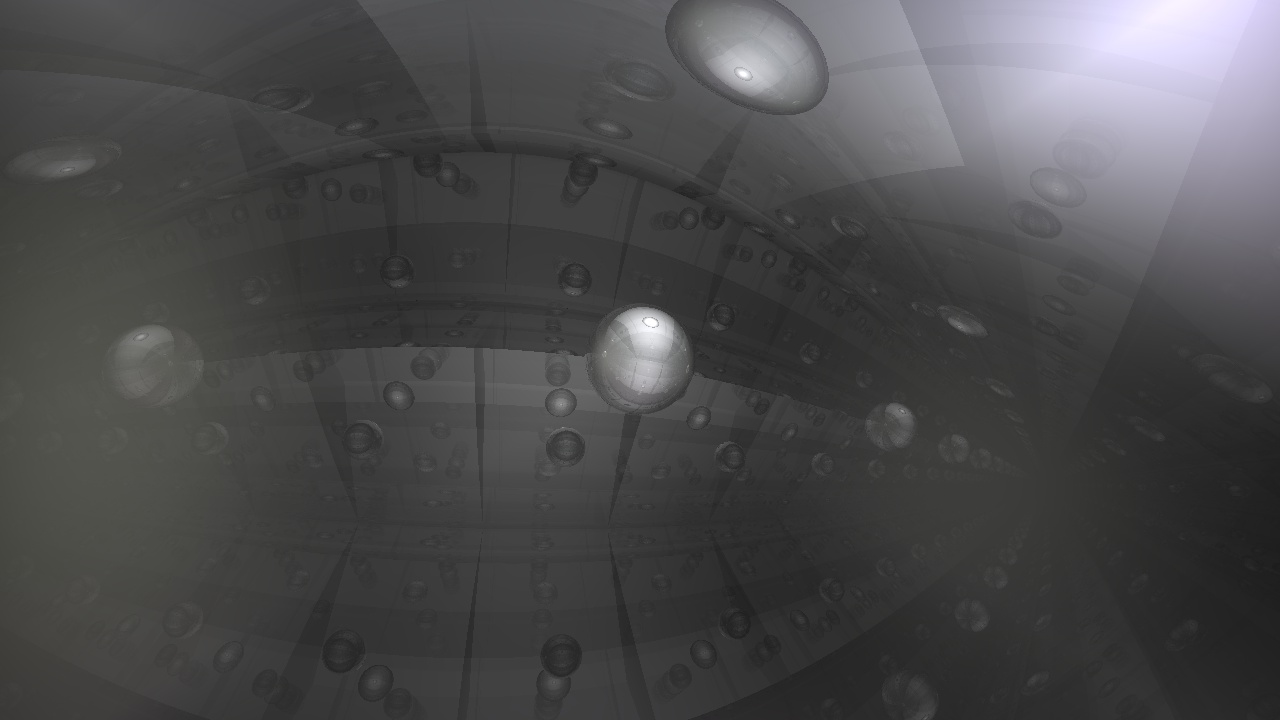
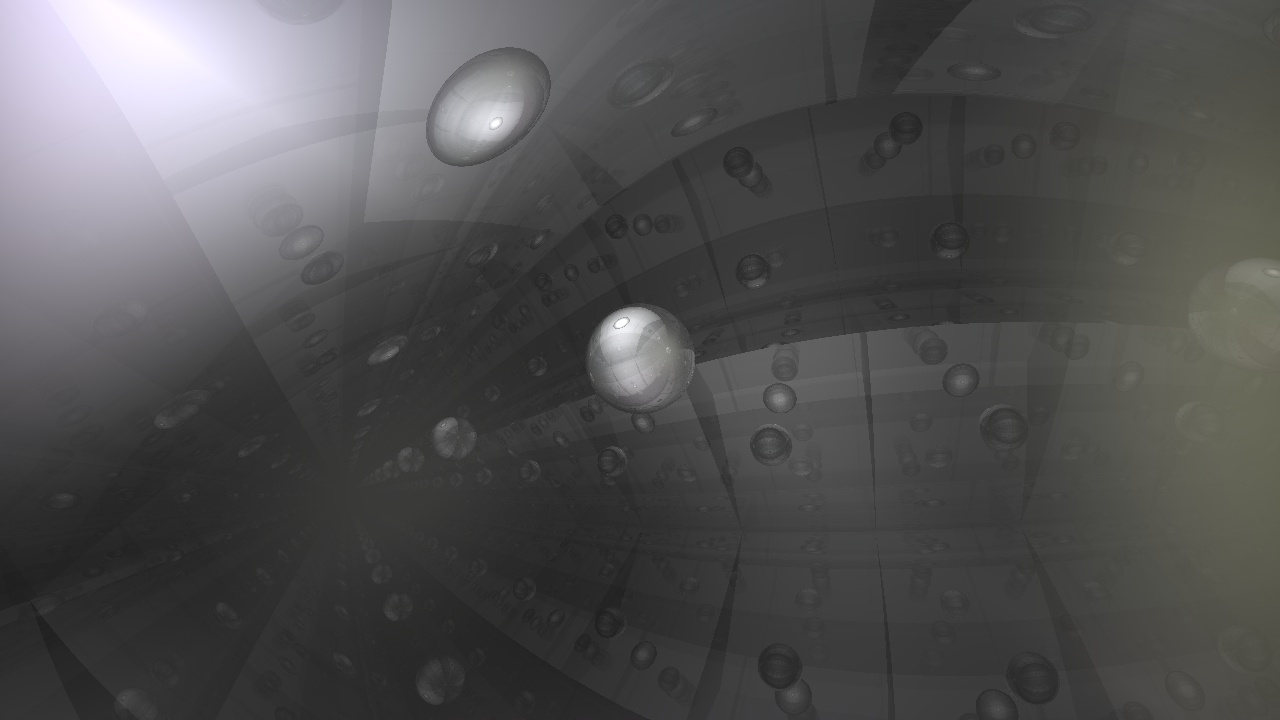
updated GnomonicProjection.glsl

diff --git a/DuEngine/TextureVideoFile.cpp b/DuEngine/TextureVideoFile.cpp
@@ -19,6 +19,7 @@ TextureVideoFile::TextureVideoFile(string filename, bool vflip, TextureFilter fi
 	this->generateFromMat();
 
 	m_fps = m_video.get(CV_CAP_PROP_FPS);
+	debug((float)m_fps);
 
 	this->initDistribution();
 	type = TextureType::VideoFile;

diff --git a/README.md b/README.md
@@ -39,57 +39,57 @@ DuEngine config.ini
 The config file reads like as follows:
 ```ini
 # This is a comment, $Name corresponds to the file name of the INI file.
-shader_frag		    =	$Name.glsl
+shader_frag         =   $Name.glsl
 
 # Specify the number of channels for the main framebuffer. 
-channels_count	    =	5
+channels_count      =   5
 
 # Specify the number of framebuffers for multi-pass rendering
-buffers_count	    =	4
+buffers_count       =   4
 
 # Here are some examples of the channel type.
 # We pre-define most of the ShaderToy presets. Visit *DuEngine/Texture.cpp* for a glance:
-iChannel0_type	    =	noise
-# iChannel0_type	=	key, font, stpeter, sjtu...
+iChannel0_type      =   noise
+# iChannel0_type    =   key, font, stpeter, sjtu...
 
 # For a custom texture file, you need to tell the type and filename with extension.
-iChannel1_type	    =	rgb
+iChannel1_type      =   rgb
 iChannel1_tex       =   whatever.png
 
 # The filters and wraps are loaded by default, but you can also change them.
-iChannel1_filter	 =	mipmap
-iChannel1_wrap       =   repeat
+iChannel1_filter        =  mipmap
+iChannel1_wrap          =   repeat
 
 # For videos, you can add fps, startFrame, and endFrame.
-iChannel2_type	        =	video
+iChannel2_type          =   video
 iChannel2_tex           =   whatever.mp4
-iChannel2_fps           =	25
-iChannel2_startFrame	=	1
-iChannel2_endFrame	    =	100
+iChannel2_fps           =   25
+iChannel2_startFrame    =   1
+iChannel2_endFrame      =   100
 
 # To read from a frame buffer, use A-Z.
-iChannel3_type	    =	A
+iChannel3_type      =   A
 
 # To read from a video sequence, use %d as the wildcard
-iChannel4_type	    =	videoseq
-iChannel4_tex	    =	myfolder/file%d.png
+iChannel4_type      =   videoseq
+iChannel4_tex       =   myfolder/file%d.png
 
 # Each frame buffer can have an arbitrary number of channels.
-A_channels_count	=	1
-A_iChannel0_type	=	london
-B_channels_count	=	1
-B_iChannel0_type	=	A
-C_channels_count	=	1
-C_iChannel0_type	=	B
-D_channels_count	=	1
-D_iChannel0_type	=	C
+A_channels_count    =   1
+A_iChannel0_type    =   london
+B_channels_count    =   1
+B_iChannel0_type    =   A
+C_channels_count    =   1
+C_iChannel0_type    =   B
+D_channels_count    =   1
+D_iChannel0_type    =   C
 
 # You can ignore the following default parameters starting from this line:
-window_width	=	1920
-window_height	=	1080
+window_width        =   1920
+window_height       =   1080
 
 # If your textures are located outside the presets folder, type something like
-resources_path	=	../resources/
+resources_path      =   ../resources/
 ```
 
 ### Multipass
@@ -98,22 +98,22 @@ Full-featured multipass rendering, e.g., see *ShaderOfWeek/Goo.cmd* for an examp
 ### Screenshots and Recording
 Press F2 to take a screen shot. In the configuration file, please add the following lines to record a video / sequences of images:
 ```C
-recording		=	true
-record_start	=	1
-record_end		=	500
-# Use true for MP4, and false for sequences of images
-record_video	=	true
+recording       =   true
+record_start    =   1
+record_end      =   500
+# Use true for generating a single video file; false for generating sequences of images
+record_video    =   true
 ```
 The video will be stored in *record* by default.
 
 ### Functional Keys
 ```C
-F1	=	Reset time;
-F2	=	Screenshot;
-F5	=	Reset and recompile;
-F6	=	Pause / Play all videos;
-F10	=	Debug the mouse output;
-F11	=	Toggle fullscreen mode;
+F1      =   Reset time;
+F2      =   Screenshot;
+F5      =   Reset and recompile;
+F6      =   Pause / Play all videos;
+F10     =   Debug the mouse output;
+F11     =   Toggle fullscreen mode;
 ```
 
 In the end, here stores some of my GLSL code written in Shadertoy.com
@@ -126,14 +126,14 @@ In the end, here stores some of my GLSL code written in Shadertoy.com
 
 ![Unified Gnomonic and Stereographic Projections](DuShaders/GnomonicProjection.jpg)
 * [Unified Gnomonic & Stereographic](https://www.shadertoy.com/view/ldBczm)
-	* [Blog post](http://blog.ruofeidu.com/unified-gnomonic-stereographic-projections/)
+    * [Blog post](http://blog.ruofeidu.com/unified-gnomonic-stereographic-projections/)
 * [Cubemap to Gnomonic Projection](https://www.shadertoy.com/view/4sjcz1)
-	* [Blog post](http://blog.ruofeidu.com/equirectangular-gnomonic-projections-cubemaps/)
+    * [Blog post](http://blog.ruofeidu.com/equirectangular-gnomonic-projections-cubemaps/)
 * [Foveated Rendering via Quadtree](https://www.shadertoy.com/view/Ml3SDf)
 
 ![Dotted Drawing Sketch](DuShaders/DottedDrawingSketch.png)
 * [Dotted Drawing / Sketch Effect](https://www.shadertoy.com/view/ldSyzV)
-	* [Blog post](http://blog.ruofeidu.com/dotted-drawing-sketch-effect/)
+    * [Blog post](http://blog.ruofeidu.com/dotted-drawing-sketch-effect/)
 * [Edges with Bilateral Filters](https://www.shadertoy.com/view/MlG3WG)
 
 ![Instgram Brannan Filter](DuShaders/Brannan.jpg)
@@ -155,14 +155,14 @@ In the end, here stores some of my GLSL code written in Shadertoy.com
 
 ![Code Golf: Halftone Image](DuShaders/DotScreen.jpg)
 * [Dot Screen / Halftone](https://www.shadertoy.com/view/4sBBDK)
-	* [Blog post](http://blog.ruofeidu.com/code-golf-halftone-image/)
+    * [Blog post](http://blog.ruofeidu.com/code-golf-halftone-image/)
 * [Equirectangular Fibonacci Sphere](https://www.shadertoy.com/view/Ms2yDK)
 * [Parameterized Gabor Filters](https://www.shadertoy.com/view/4sBcRV)
 * [Bilateral Filter to Look Younger](https://www.shadertoy.com/view/XtVGWG)
 
 ![Artisitc404](DuShaders/Artistic404.jpg)
 * [Brightness, Contrast, Hue, Saturation, Vibrance](https://www.shadertoy.com/view/MdjBRy)
-	* [Blog post] (http://blog.ruofeidu.com/postprocessing-brightness-contrast-hue-saturation-vibrance/)
+    * [Blog post](http://blog.ruofeidu.com/postprocessing-brightness-contrast-hue-saturation-vibrance/)
 
 ![LightFieldSingle](Lightfield/LightFieldSingle.jpg)
 * Light Field Rendering
@@ -183,7 +183,7 @@ In the end, here stores some of my GLSL code written in Shadertoy.com
 
 Author
 ----
-Ruofei Du
+[Ruofei Du](http://www.duruofei.com)
 
 
 License
